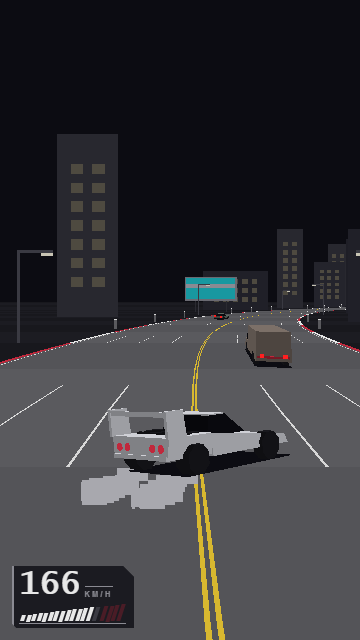
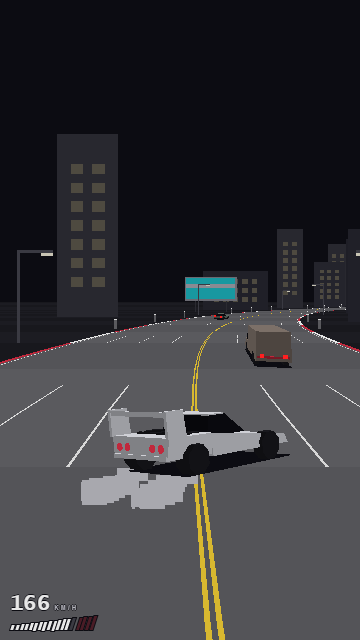
HUD smaller and simpler: speedometer without plate, smaller digits, compact two-row board; text-zoom guard (CSS reset + HudFontFit)

Changed region(s): [[0.0306, 0.875, 0.3972, 1.0]]

diff --git a/src/ui/speedometer.ts b/src/ui/speedometer.ts
@@ -12,6 +12,65 @@ export function hudEm(r: DOMRect, l: HudLayout): number {
   return Math.min(r.width / l.widthEm, r.height / l.heightEm);
 }
 
+// Text-zoom guard: rendered HUD text further than this fraction from the intended size is
+// treated as browser text zoom and compensated (a measuring tolerance, not a tunable).
+const TEXT_ZOOM_TOLERANCE = 0.05;
+const PROBE_TEXT = '0000';
+// Probe size in root em: large, so hinted whole-pixel glyph advances at small sizes do not make
+// the measured ratio jump between frames.
+const PROBE_EM = 10;
+
+/**
+ * Keeps a HUD root's text at the intended size when the browser scales text on its own (Chrome
+ * for iOS "Zoom Text" sets -webkit-text-size-adjust on body; the CSS guard on the root is the
+ * first line, this is the second). A hidden digit probe inside the root is measured against the
+ * same string measured by a 2D canvas, which text zoom does not touch, and the root font-size is
+ * divided by the ratio. Re-fits when the probe changes size (zoom applied after load). Runs only on
+ * construction, resize and probe resize, never per frame.
+ */
+export class HudFontFit {
+  private readonly probe: HTMLSpanElement;
+  private readonly ctx: CanvasRenderingContext2D | null;
+
+  constructor(
+    private readonly root: HTMLElement,
+    relayout: () => void,
+  ) {
+    const p = document.createElement('span');
+    p.style.cssText = `position:absolute;left:0;top:0;visibility:hidden;white-space:nowrap;line-height:1;font-size:${PROBE_EM}em`;
+    p.textContent = PROBE_TEXT;
+    root.appendChild(p);
+    this.probe = p;
+    this.ctx = document.createElement('canvas').getContext('2d');
+    if (typeof ResizeObserver !== 'undefined') new ResizeObserver(relayout).observe(p);
+  }
+
+  /**
+   * Sets the root font-size to px CSS px, divided by the text zoom measured at the size set now
+   * when it is off. A change resizes the probe, so the observer re-measures until it settles.
+   */
+  apply(px: number): void {
+    const s = this.root.style;
+    let set = parseFloat(s.fontSize);
+    if (!(set > 0)) {
+      set = px;
+      s.fontSize = `${px}px`;
+    }
+    const ctx = this.ctx;
+    if (ctx === null) {
+      if (set !== px) s.fontSize = `${px}px`;
+      return;
+    }
+    const cs = getComputedStyle(this.root);
+    ctx.font = `${cs.fontWeight} ${set * PROBE_EM}px ${cs.fontFamily}`;
+    const want = ctx.measureText(PROBE_TEXT).width;
+    const got = this.probe.getBoundingClientRect().width;
+    const k = want > 0 && got > 0 ? got / want : 1;
+    const fit = Math.abs(k - 1) > TEXT_ZOOM_TOLERANCE ? px / k : px;
+    if (Math.abs(fit - set) > 0.01) s.fontSize = `${fit}px`;
+  }
+}
+
 /** R28 speedometer (numbers in src/data/sprites.json "speedometer"). */
 export interface SpeedometerConfig extends HudLayout {
   vmaxKmh: number; // km/h shown at speed = vmax
@@ -36,27 +95,27 @@ export function readSpeed(out: SpeedReading, car: Car, speed: number, vmax: numb
   return out;
 }
 
-// HUD look (docs/art-bible.md "HUD"): flat dark chamfered plate, hard edges, skewed bar segments,
-// stencil-like spaced label; accent colour only for boost. No transitions: state changes are steps.
+// HUD look (docs/art-bible.md "HUD"): no plate over the road; digits, label and skewed bar segments
+// keep a hard 1px dark outline (no blur) to read on any road colour; stencil-like spaced label;
+// accent colour only for boost. No transitions: state changes are steps. Text-size-adjust and text
+// zoom are reset on the root (HudFontFit is the fallback).
 const STYLE = `
 #speedo{position:fixed;pointer-events:none;z-index:5;display:flex;flex-direction:column;
 align-items:flex-start;font-family:ui-monospace,"Lucida Console",Consolas,monospace;
 font-weight:900;color:#e8e8e8;line-height:1;-webkit-font-smoothing:none;font-smooth:never;
-background:rgba(12,12,18,0.78);border-left:0.25em solid #8a8a92;padding:0.35em 0.8em 0.4em 0.5em;
-clip-path:polygon(0 0,calc(100% - 1.1em) 0,100% 1.1em,100% 100%,0.45em 100%,0 calc(100% - 0.45em))}
+-webkit-text-size-adjust:100%;text-size-adjust:100%;-webkit-text-zoom:reset;
+text-shadow:1px 0 0 #0c0c12,-1px 0 0 #0c0c12,0 1px 0 #0c0c12,0 -1px 0 #0c0c12}
 #speedo .top{display:flex;align-items:flex-end}
-#speedo .num{font-size:3.2em;letter-spacing:0.02em;font-variant-numeric:tabular-nums}
+#speedo .num{font-size:2.6em;letter-spacing:0.02em;font-variant-numeric:tabular-nums}
 #speedo .unit{font-family:"Arial Narrow","Roboto Condensed",sans-serif-condensed,Bahnschrift,
-ui-monospace,monospace;font-stretch:condensed;font-size:0.85em;font-weight:700;color:#8a8a92;
-letter-spacing:0.3em;margin:0 0 0.35em 0.45em;padding-top:0.3em;border-top:0.12em solid #8a8a92}
-#speedo .bar{display:flex;gap:0.14em;align-items:flex-end;margin-top:0.3em;padding:0 0.3em 0.18em 0.2em;
-border-bottom:0.12em solid #8a8a92}
-#speedo .seg{width:0.42em;background:#3a3a42;transform:skewX(-18deg)}
+ui-monospace,monospace;font-stretch:condensed;font-size:0.9em;font-weight:700;color:#b8b8c0;
+letter-spacing:0.3em;margin:0 0 0.3em 0.45em}
+#speedo .bar{display:flex;gap:0.14em;align-items:flex-end;margin-top:0.3em;padding-left:0.2em}
+#speedo .seg{width:0.42em;background:#3a3a42;transform:skewX(-18deg);box-shadow:0 0 0 1px #0c0c12}
 #speedo .seg.on{background:#e8e8e8}
 #speedo .seg:not(.boost)+.seg.boost{margin-left:0.32em}
 #speedo .seg.boost{background:#4a1c26}
 #speedo .seg.boost.on{background:#c0283c}
-#speedo.boosting{border-left-color:#ffe14a}
 #speedo.boosting .num{color:#ffe14a}
 #speedo.boosting .seg.boost.on{background:#ffe14a}
 `;
@@ -71,6 +130,7 @@ export class Speedometer {
   private readonly root: HTMLDivElement;
   private readonly num: HTMLSpanElement;
   private readonly segs: HTMLSpanElement[] = [];
+  private readonly fit: HudFontFit;
   private shownKmh = -1;
   private shownLit = -1;
   private shownBoost = false;
@@ -108,6 +168,7 @@ export class Speedometer {
     root.append(top, bar);
     parent.appendChild(root);
     this.root = root;
+    this.fit = new HudFontFit(root, () => this.layout());
     this.layout();
     window.addEventListener('resize', () => this.layout());
   }
@@ -118,7 +179,7 @@ export class Speedometer {
     const s = this.root.style;
     const em = hudEm(r, this.cfg);
     const m = em * this.cfg.marginEm;
-    s.fontSize = `${em}px`;
+    this.fit.apply(em);
     s.left = `${r.left + m}px`;
     s.bottom = `${window.innerHeight - r.bottom + m}px`;
   }

diff --git a/src/ui/leaderboard.ts b/src/ui/leaderboard.ts
@@ -1,6 +1,6 @@
 import type { Car } from '../sim/types';
 import { fillLeaderboard, placeChange, type LeaderRow } from './leaderboardModel';
-import { hudEm, type HudLayout } from './speedometer';
+import { HudFontFit, hudEm, type HudLayout } from './speedometer';
 
 /** R67 leaderboard numbers (src/data/rivals.json). */
 export interface LeaderboardConfig {
@@ -20,22 +20,23 @@ const STYLE = `
 #board{position:fixed;pointer-events:none;z-index:5;font-family:ui-monospace,"Lucida Console",
 Consolas,monospace;font-weight:900;color:#e8e8e8;line-height:1;-webkit-font-smoothing:none;
 font-smooth:never;display:flex;flex-direction:column;align-items:flex-end;
-background:rgba(28,28,34,0.88);border-right:0.25em solid #8a8a92;padding:0 0 0.5em 0.3em;
+-webkit-text-size-adjust:100%;text-size-adjust:100%;-webkit-text-zoom:reset;
+background:rgba(28,28,34,0.88);border-right:0.25em solid #8a8a92;padding:0 0 0.3em 0.3em;
 clip-path:polygon(0 0,calc(100% - 0.45em) 0,100% 0.45em,100% 100%,1.1em 100%,0 calc(100% - 1.1em))}
-#board .big{font-size:2.6em;font-variant-numeric:tabular-nums;background:#ffe14a;color:#0c0c12;
+#board .big{font-size:2.2em;font-variant-numeric:tabular-nums;background:#ffe14a;color:#0c0c12;
 padding:0.06em 0.12em 0.04em 0.4em;clip-path:polygon(0 0,100% 0,100% 100%,0.3em 100%,0 calc(100% - 0.3em))}
 #board .big small{font-size:0.5em;margin-left:0.1em;letter-spacing:0.1em}
 #board.up .big{background:#b4ff39}
 #board.down .big{background:#ff4f6a}
-#board .rows{margin-top:0.3em;display:flex;flex-direction:column;gap:0.16em;align-self:stretch}
-#board .row{display:flex;gap:0.5em;align-items:baseline;justify-content:flex-end;
+#board .rows{margin-top:0.3em;display:flex;flex-direction:column;gap:0.16em;width:10.6em}
+#board .row{display:flex;gap:0.35em;align-items:baseline;justify-content:flex-end;
 font-size:0.95em;padding:0.14em 0.35em 0.12em 0.35em}
-#board .row .p{width:1.2em;text-align:right;color:#8a8a92}
-#board .row .n{max-width:9em;overflow:hidden;white-space:nowrap}
+#board .row .p{flex:none;width:1em;text-align:right;color:#8a8a92}
+#board .row .n{min-width:0;overflow:hidden;white-space:nowrap;text-overflow:ellipsis}
 #board .row .n::before{content:'';display:inline-block;width:0.5em;height:0.5em;margin:0 0.4em 0 0.1em;
 background:#5a5a62;transform:skewX(-18deg)}
-#board .row .g{width:4.4em;text-align:right;font-variant-numeric:tabular-nums;color:#b8b8c0}
-#board .row .j{font-family:"Arial Narrow","Roboto Condensed",sans-serif-condensed,Bahnschrift,
+#board .row .g{flex:none;min-width:3.6em;text-align:right;font-variant-numeric:tabular-nums;color:#b8b8c0}
+#board .row .j{flex:none;font-family:"Arial Narrow","Roboto Condensed",sans-serif-condensed,Bahnschrift,
 ui-monospace,monospace;font-stretch:condensed;font-size:0.75em;font-weight:700;color:#39e6ff;
 text-transform:uppercase;letter-spacing:0.15em;display:none}
 #board .row.joined .n::before{background:#39e6ff}
@@ -70,6 +71,7 @@ export class Leaderboard {
   private readonly rows: LeaderRow[] = [];
   private readonly numbers: string[] = [];
   private readonly gaps: string[] = [];
+  private readonly fit: HudFontFit;
   private shownPlace = -1;
   private flash = 0;
   private flashDir = 0;
@@ -137,6 +139,7 @@ export class Leaderboard {
     root.append(big, list);
     parent.appendChild(root);
     this.root = root;
+    this.fit = new HudFontFit(root, () => this.layout());
     this.layout();
     window.addEventListener('resize', () => this.layout());
   }
@@ -147,7 +150,7 @@ export class Leaderboard {
     const s = this.root.style;
     const em = hudEm(r, this.layoutCfg);
     const m = em * this.layoutCfg.marginEm;
-    s.fontSize = `${em}px`;
+    this.fit.apply(em);
     s.right = `${window.innerWidth - r.right + m}px`;
     s.top = `${r.top + m}px`;
   }

diff --git a/docs/art-bible.md b/docs/art-bible.md
@@ -28,15 +28,17 @@ Dark Psychedelic Arcade Racing. Референсы: Vermis, LSD: Dream Emulator 
 
 ## HUD [старт]
 Спидометр (R28) и таблица мест (R67) — одна графическая система в духе Wipeout, но утилитарная и жёсткая (постапокалипсис): приборная панель, а не глянец.
-- Заливка плашки — на шаг светлее того, на чём она лежит: спидометр над дорогой — `rgba(12,12,18,0.78)`, таблица над небом `#0c0c12` — `rgba(28,28,34,0.88)` (`#1c1c22`); иначе плашка и её срез сливаются с фоном.
-- Форма: у каждого блока одна плоская тёмная плашка (фон просвечивает) со срезанными углами (`clip-path`): большой срез — у угла, смотрящего в центр экрана, малый — у угла экрана; жёсткая серая кромка `#8a8a92` 0.25 em со стороны края экрана (спидометр — слева, таблица — справа). Плашки на каждую строку не делаем. У спидометра — риска под единицами и базовая линия под шкалой, как у прибора.
-- Метки соперников в таблице — сплошной скошенный квадратик перед именем: серый, немезида `#ff4f6a`, вошедший `#39e6ff`; у строки игрока — чёрный.
-- Шкала скорости — скошенные сегменты, растут к краю; зона буста (R53) отделена зазором, в покое тёмно-красная `#4a1c26`, горит `#c0283c`, при бусте — жёлтая, вместе с числом и кромкой.
+- Спидометр — без плашки [решено автором 2026-11-20: «убери подложку у спидометра»]: цифры, `KM/H` и шкала прямо над дорогой, у текста и сегментов жёсткая тёмная обводка `#0c0c12` 1 px без размытия (единственное исключение из запрета на обводки — чтобы читалось на любом цвете дороги). Риски под единицами и базовой линии под шкалой больше нет.
+- Заливка плашки таблицы — на шаг светлее неба `#0c0c12`: `rgba(28,28,34,0.88)` (`#1c1c22`); иначе плашка и её срез сливаются с фоном.
+- Форма таблицы: одна плоская тёмная плашка (фон просвечивает) со срезанными углами (`clip-path`): большой срез — у угла, смотрящего в центр экрана, малый — у угла экрана; жёсткая серая кромка `#8a8a92` 0.25 em справа (край экрана). Плашки на каждую строку не делаем. Под жёлтой плашкой «место / всего» — две строки ближайших соперников (R67), строки игрока нет; ширина строк постоянная, длинное имя обрезается многоточием (текст не уменьшаем).
+- Метки соперников в таблице — сплошной скошенный квадратик перед именем: серый, немезида `#ff4f6a`, вошедший `#39e6ff`.
+- Шкала скорости — скошенные сегменты, растут к краю; зона буста (R53) отделена зазором, в покое тёмно-красная `#4a1c26`, горит `#c0283c`, при бусте — жёлтая, вместе с числом.
 - Текст: цифры — моноширинный системный шрифт; подписи (`KM/H`, «ВОШЁЛ») — узкий системный шрифт, прописные, широкая разрядка. Веб-шрифтов нет.
-- Цвет: светлый текст `#e8e8e8`, второстепенное — серые `#8a8a92` / `#b8b8c0`. Акцент только по делу: место и строка игрока — предупреждающий жёлтый шевронов `#ffe14a` с чёрным текстом; буст — жёлтый; цвета соперников (`#39e6ff` «вошёл», `#ff4f6a` немезида) сохраняются. Смена места: плашка места на `placeFlashTime` становится `#b4ff39` (вверх) или `#ff4f6a` (вниз).
+- Цвет: светлый текст `#e8e8e8`, второстепенное — серые `#8a8a92` / `#b8b8c0`. Акцент только по делу: место — предупреждающий жёлтый шевронов `#ffe14a` с чёрным текстом; буст — жёлтый; цвета соперников (`#39e6ff` «вошёл», `#ff4f6a` немезида) сохраняются. Смена места: плашка места на `placeFlashTime` становится `#b4ff39` (вверх) или `#ff4f6a` (вниз).
 - Движение: только жёсткие шаги — класс меняет цвет мгновенно, без `transition` и плавных затуханий.
-- Запрещено: градиенты, свечение, глянец, тени-обводки; шум, зерно, царапины, сканлайны, мерцание, текстуры ржавчины («мельтешит» — отзыв автора). Чистые плоские заливки (Killer7).
-- Размер: em от ширины холста (`sprites.json`, блоки `speedometer` / `leaderboard`); спидометр ≤ 36% ширины и ≤ 11% высоты холста, таблица ≤ 40% / ≤ 16%, текст строк ≥ 9 px на 360 по ширине.
+- Запрещено: градиенты, свечение, глянец, мягкие тени и обводки (кроме жёсткой 1 px у спидометра без плашки); шум, зерно, царапины, сканлайны, мерцание, текстуры ржавчины («мельтешит» — отзыв автора). Чистые плоские заливки (Killer7).
+- Размер: em от ширины холста (`sprites.json`, блоки `speedometer` / `leaderboard`); спидометр ≤ 26% ширины и ≤ 7% высоты холста, высота цифр скорости 15–17 px на холсте шириной ≈ 370; таблица ≤ 30% / ≤ 9%, текст строк ≥ 9 px на 360 по ширине.
+- Защита от увеличения текста браузером (Chrome для iOS «Масштаб текста» ставит `-webkit-text-size-adjust` на `body` — на телефоне автора HUD был ровно ×2): у корней `#speedo` / `#board` — `-webkit-text-size-adjust:100%; text-size-adjust:100%; -webkit-text-zoom:reset`; запасной путь — `HudFontFit` (`src/ui/speedometer.ts`) меряет скрытый образец цифр против того же текста на 2D-холсте и делит `font-size` на найденный коэффициент. Имена над машинами рисуются на холсте — их это не касается.
 
 ## Заглушки и замена
 Имена ассетов: `<layer>_<kind>_<variant>` (например `l3_post_a`). Код ссылается на имя в атласе, не на файл — финальный ассет подменяется без правки кода.

diff --git a/docs/balance.md b/docs/balance.md
@@ -269,3 +269,5 @@
 | 2026-11-20 | `sprites.json` (`speedometer`): новые `widthEm` / `heightEm` / `marginEm` | em = высота холста / 48, отступ 1.2 em (числа в коде) | em = min(ширина / 36, высота / 64), отступ 1.2 em | R28: на телефоне спидометр «ОГРОМНЫЙ» (автор) — на 390×844 холст не 9:16, em от высоты слишком велик; теперь em от ширины, высота только ограничивает. Только размер, стиль не менялся | Playwright, сцена `rivals`, 360×640 / 360×800 / 390×844 / 412×915 (мобильная эмуляция, DPR 2–3): ширина блока 44.6–55.8% → 33.4–33.5% ширины холста (критерий ≤ 36%), высота 13.0% → 7.8–9.8% высоты (≤ 11%), высота цифр 31–46 → 23–27 px (≥ 18); кадры `rivals`, `drift-camera` |
 | 2026-11-20 | `sprites.json`: новый блок `leaderboard` (`widthEm` / `heightEm` / `marginEm`) | em = высота холста / 56, отступ 1.2 em (числа в коде) | em = min(ширина / 38, высота / 64), отступ 1.2 em | R67: таблица занимала больше половины ширины экрана телефона; число строк `leaderboardRows` (5) не трогали. Только размер, стиль не менялся | тот же замер: ширина 46.3–57.9% → 38.4% (≤ 40%), высота 17.0–17.1% → 11.3–14.1% (≤ 16%), текст строк 10.9–15.5 → 9.0–10.3 px (≥ 9); кадр `rivals` |
 | 2026-11-20 | `rivals.json`: `leaderboardRows` | 5 (окно вокруг игрока, со строкой игрока) | 2 (ближайшие по месту соперники, строки игрока нет) [решено автором 2026-11-20] | R67: «в верхнем углу оставь только плашку с позицией и ближайшими двумя соперниками»; первый — места 2, 3, последний — двое перед ним | тесты `tests/ui/leaderboardModel.test.ts` (R67, два ближайших) |
+| 2026-11-20 | `sprites.json` (`speedometer`): `widthEm` / `heightEm`; стиль: цифры `2.6em` (было `3.2em`), `KM/H` `0.9em` (было `0.85em`), без плашки | 36 / 64 | 44 / 78 [запрос автора 2026-11-20: «сделай его меньше; убери подложку у спидометра; сделай цифры спидометра меньше»] | R28: на iPhone 13 HUD ≈ ×2 (масштаб текста Chrome iOS, см. защиту в art-bible), и сам спидометр крупный; плашка снята, у текста и сегментов жёсткая обводка 1 px `#0c0c12` | Playwright Chromium, мобильная эмуляция DPR 3, по умолчанию и `rivals&seed=1&frames=60`: 360×640 / 390×664 / 390×844 / 412×915 — ширина 33.9% → 23.7% (≤ 26%), высота 7.8–9.7% → 4.7–5.9% (≤ 7%), высота цифры «0» 23–27 → 15–17 px (на 374 — 16) |
+| 2026-11-20 | стиль таблицы (`src/ui/leaderboard.ts`): «место / всего» `2.2em` (было `2.6em`), ширина строк постоянная `10.6em` (была по содержимому, имя до `9em`), колонка места `1em` (`1.2em`), отрыв `min 3.6em` (`4.4em`), зазоры `0.35em` (`0.5em`), нижний отступ `0.3em` (`0.5em`); `leaderboard.widthEm` 38 не меняется | — | — [запрос автора 2026-11-20, R67 две строки] | меньше и проще; текст строк остаётся ≥ 9 px, длинное имя режется многоточием | тот же замер: ширина 31.4–39.2% → 29.2% (≤ 30%), высота 12.2–15.2% → 6.6–8.2% (≤ 9%), текст строк 9.0–10.3 px; имя `xX_drift_Xx` → «xX_dr…» (46–53 px) |
